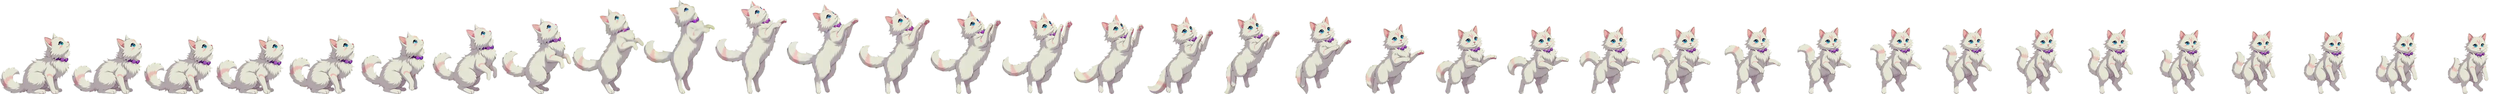
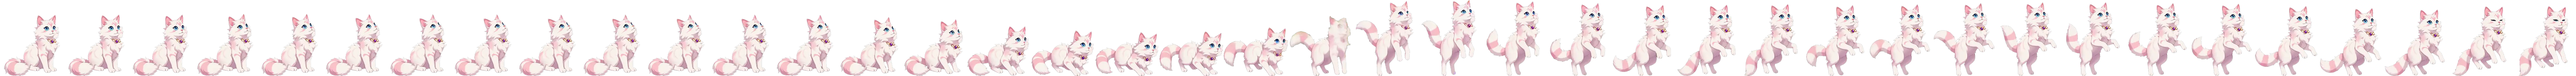
mockup v49: v2 consistent cat sprites, real lick idle

diff --git a/catpal.js b/catpal.js
@@ -1,7 +1,7 @@
 // v49 mockup: котик-компаньон (спрайты) сидит на заголовке пака и прыгает между паками
 (()=>{if(matchMedia('(prefers-reduced-motion: reduce)').matches)return;const H=document.documentElement;
 const K=(innerWidth>700?70:60)/180; // сидит ~60px на телефоне, ~70px на десктопе
-const CL={lick:{src:'cat/cat-down.webp',n:40,w:155,h:338,fps:5,loop:[32,33,34,35,36,37,38,39,38,37,36,35,34,33]},down:{src:'cat/cat-down.webp',n:40,w:155,h:338},up:{src:'cat/cat-up.webp',n:35,w:210,h:276}};
+const CL={lick:{src:'cat/cat-lick.webp',n:60,w:188,h:180,fps:10,loop:[...Array(60).keys()]},down:{src:'cat/cat-down.webp',n:40,w:197,h:300,r:[10,36]},up:{src:'cat/cat-up.webp',n:40,w:189,h:224,r:[14,32]}};
 const el=document.createElement('div');el.id='mcat';el.innerHTML='<div class="mw"><div class="ms"></div></div>';const sp=el.querySelector('.ms'),mw=el.querySelector('.mw');
 let ready=false,clip=null,frame=-1,pos=null,curP=null,busy=false,want=null,stable=0,raf=0,t0=0,flip=1,app=null;
 const setClip=c=>{if(clip===c)return;clip=c;const C=CL[c],k=K;const w=C.w*k,h=C.h*k;
@@ -22,7 +22,7 @@ async function hop(to){busy=true;const a=pos,b=spot(to);if(!b){busy=false;return
   await tween(200,k=>{mw.style.transform=`scaleX(${flip*(1+.12*k)}) scaleY(${1-.16*k})`});
   setClip(down?'down':'up');const C=CL[clip];const top=Math.min(a.y,b.y)-(down?70:110),D=Math.min(950,700+Math.abs(b.y-a.y)*.15);
   await tween(D,k=>{const e=ease(k),bb=spot(to)||b,x=a.x+(bb.x-a.x)*e,cy=2*top-(a.y+bb.y)/2,y=(1-e)*(1-e)*a.y+2*(1-e)*e*cy+e*e*bb.y;put(x,y);pos={x,y};
-    setFrame(Math.min(C.n-1,Math.floor((down?k:(.25+k*.75))*C.n)));const sq=k<.15?1+.1*(1-k/.15):1;mw.style.transform=`scaleX(${flip/sq}) scaleY(${sq})`});
+    {let f=Math.min(C.r[1],C.r[0]+Math.floor(k*(C.r[1]-C.r[0]+1)));if(clip=="up"&&f==20)f=21;setFrame(f)};const sq=k<.15?1+.1*(1-k/.15):1;mw.style.transform=`scaleX(${flip/sq}) scaleY(${sq})`});
   setClip('lick');setFrame(CL.lick.loop[0]);pos=spot(to)||b;put(pos.x,pos.y);curP=to;
   const cv=to.querySelector('.cov');cv&&cv.animate([{transform:'none'},{transform:'translateY(3px)'},{transform:'none'}],{duration:380,easing:'ease-out'});
   await tween(320,k=>{const s=Math.sin(k*Math.PI)*(1-k*.4);mw.style.transform=`scaleX(${flip*(1+.18*s)}) scaleY(${1-.2*s})`});mw.style.transform=`scaleX(${flip})`;t0=performance.now();busy=false};
